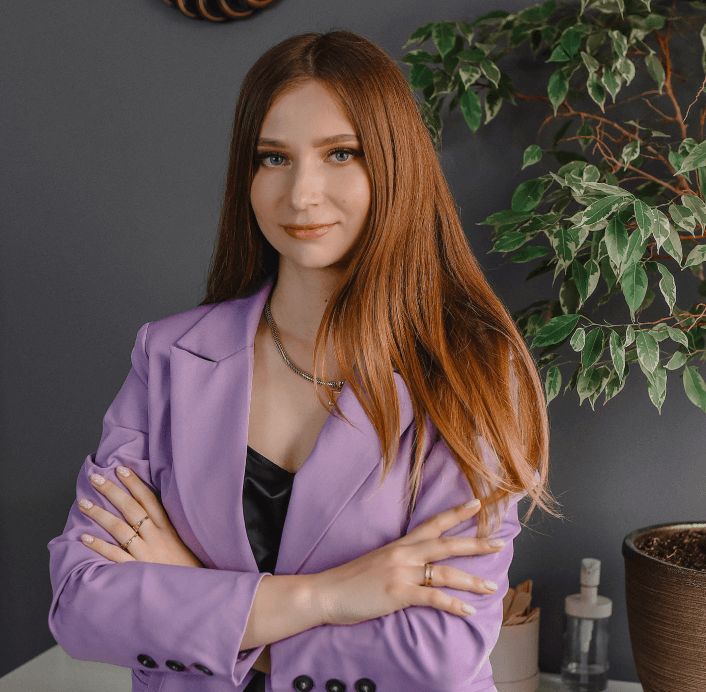
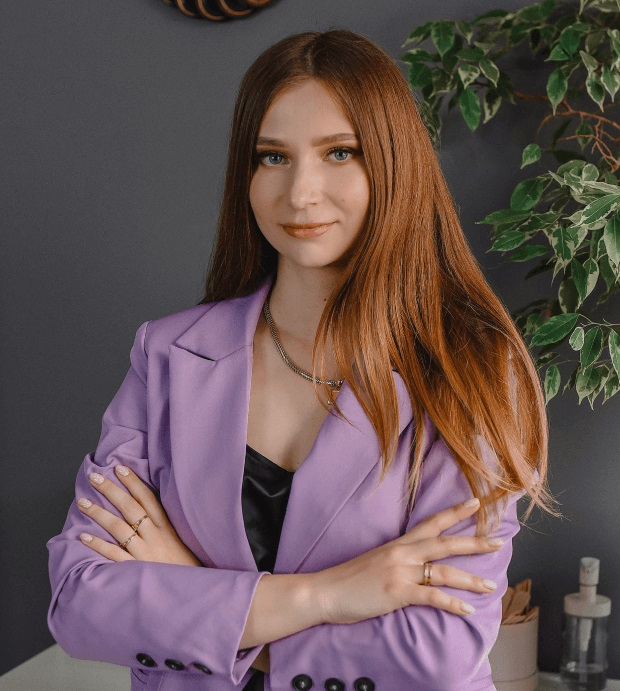
Create Movie component (not finished)

diff --git a/src/components/MainPage/About/About.scss b/src/components/MainPage/About/About.scss
@@ -21,7 +21,7 @@
         display: flex;
         flex-flow: row wrap;
         justify-content: space-between;
-        height: 692px;
+        height: 691px;
 
         .about-block__text {
             width: 50%;
@@ -48,13 +48,13 @@
         }
 
         .about-block__image {
-            position: relative;
-            right: -43px;
-            // right: 0px;
+            position: absolute;
+            // background-size: contain no-repeat;
+            right: 0px;
             width: 50%;
 
             img {
-                position: relative;
+                position: absolute;
                 right: 0px;
             }
         }

diff --git a/src/components/MainPage/MainBlock/MainBlock.scss b/src/components/MainPage/MainBlock/MainBlock.scss
@@ -9,6 +9,8 @@
     position: relative;
     top: 0;
     width: 100%;
+    height: 97vh;
+    overflow: hidden;
     // background: url('../../../images/main_face.jpg') no-repeat scroll center;
     background: url('../../../images/main_face.png') no-repeat center;
     background-size: cover;
@@ -16,7 +18,8 @@
 
     .main-block__title {
         // padding: 480px 0 85px 0;
-        padding: 350px 0 180px 0;
+        // padding: 350px 0 180px 0;
+        padding-top: 350px;
         display: inline-block;
     }
 

diff --git a/src/components/MainPage/MainPage.jsx b/src/components/MainPage/MainPage.jsx
@@ -5,6 +5,7 @@ import { MainBlock } from './MainBlock/MainBlock'
 import { About } from './About/About'
 import { Services } from './Services/Services'
 import { Works } from './Works/Works'
+import { Movie } from './Movie/Movie'
 
 import './MainPage.scss'
 
@@ -17,6 +18,7 @@ export const MainPage = () => {
                 <About />
                 <Services />
                 <Works />
+                <Movie />
             </main>
             <Footer />
         </>

diff --git a/src/components/MainPage/Movie/Movie.scss b/src/components/MainPage/Movie/Movie.scss
@@ -1,0 +1,17 @@
+.movie {
+    padding: 27px 0 109px 0;
+
+    .movie__title {
+        font-family: 'Scotch';
+        font-style: normal;
+        font-weight: 400;
+        font-size: 60px;
+        line-height: 69px;
+
+        text-align: center;
+        letter-spacing: 0.05em;
+        text-transform: uppercase;
+
+        color: #392F85;
+    }
+}

diff --git a/src/components/MainPage/Movie/Movie.jsx b/src/components/MainPage/Movie/Movie.jsx
@@ -1,0 +1,13 @@
+import React from 'react'
+
+import './Movie.scss'
+
+export const Movie = () => {
+    return (
+        <section className='movie'>
+            <div className="container">
+                <h2 className="movie__title">Почувствуй мою атмосферу</h2>
+            </div>
+        </section>
+    )
+}

diff --git a/src/components/MainPage/Header/Header.scss b/src/components/MainPage/Header/Header.scss
@@ -26,7 +26,9 @@
         }
     }
 
+
     .header__button {
+        cursor: pointer;
         position: absolute;
         width: 400px;
         height: 70px;
